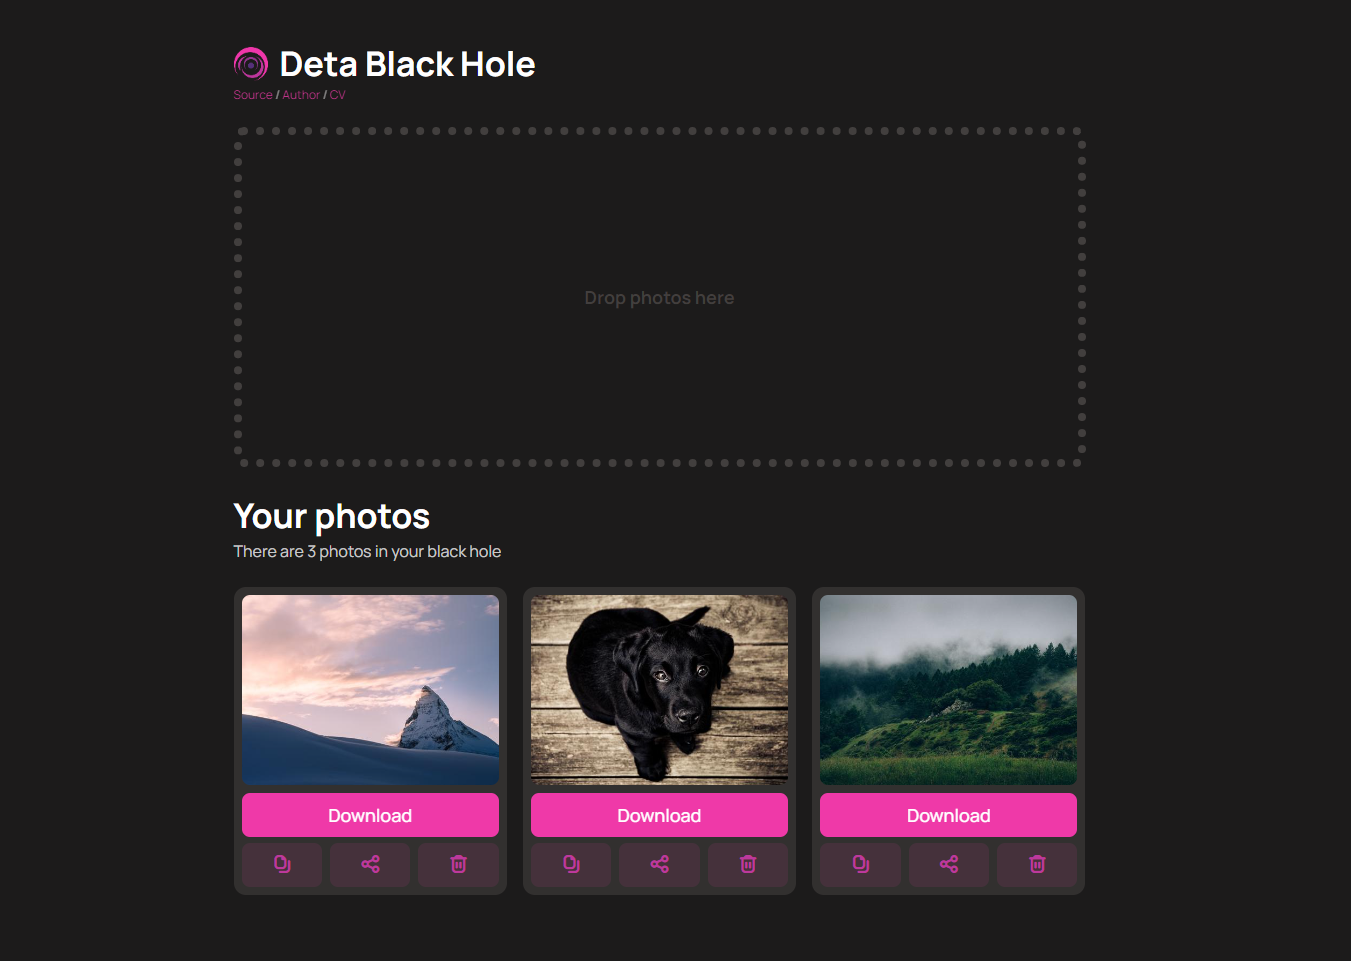
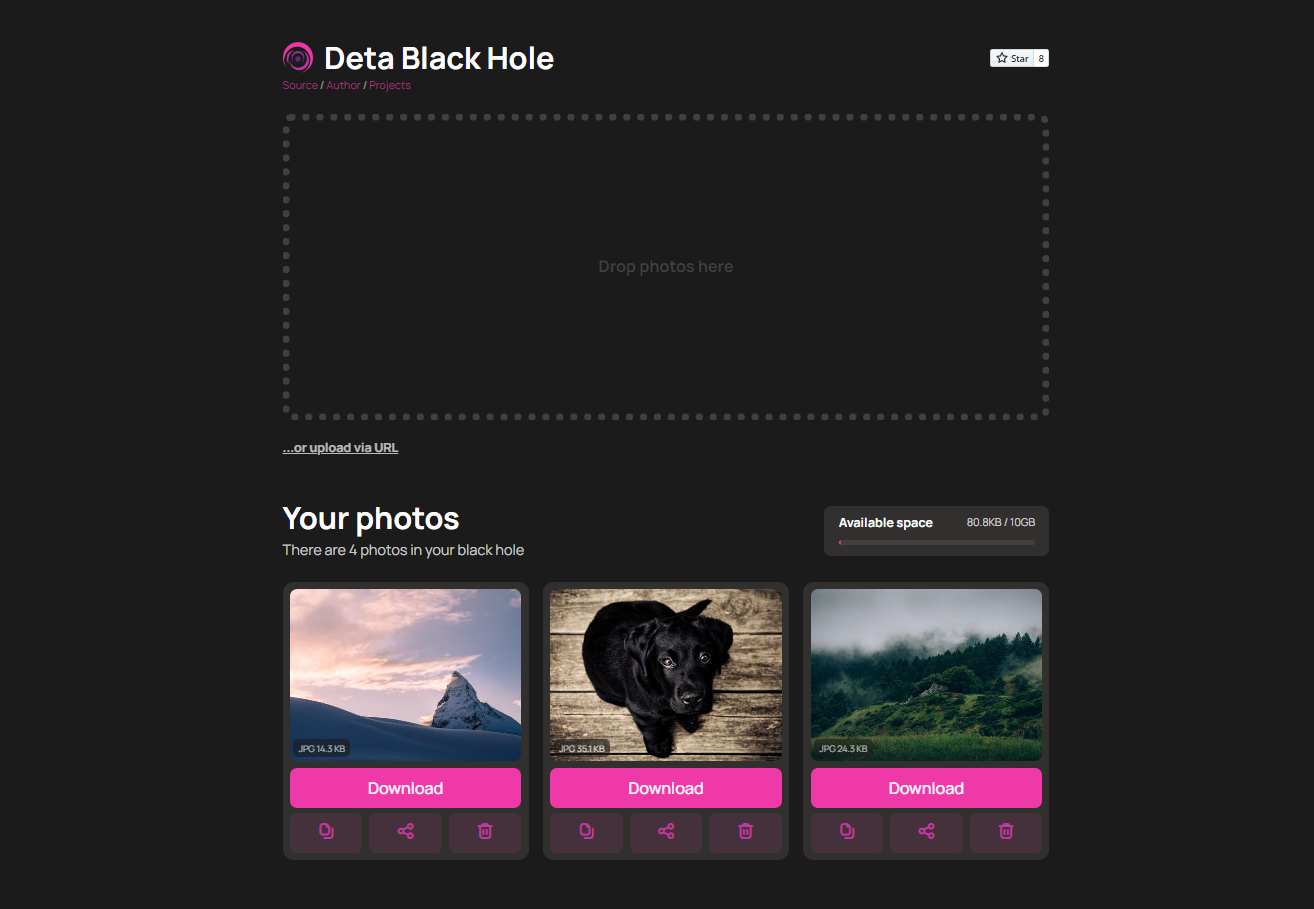
readme and preview update

diff --git a/Discovery.md b/Discovery.md
@@ -1,6 +1,6 @@
 ---
 title: "Deta Black Hole"
-tagline: "Your personal image hosting."
+tagline: "Your personal image hosting"
 theme_color: "#ef39a8"
 git: "https://github.com/mikhailsdv/deta-black-hole"
 homepage: "https://github.com/mikhailsdv/deta-black-hole"
@@ -8,7 +8,9 @@ homepage: "https://github.com/mikhailsdv/deta-black-hole"
 
 🌀 Deta Black Hole is kind of black hole for your images. You just drop stuff and it eats it.
 
-Main features:
+![image](./preview.png)
+
+Features:
 
 -   Drag'n'drop multiple files;
 -   Drag'n'drop images from another browser tabs;
@@ -19,6 +21,7 @@ Main features:
 -   Delete image button;
 -   Adaptive mobile version;
 -   Your images sorted by upload date by default;
+-   Available space indicator;
 -   Other features I forgot about.
 
 So Deta Black Hole is the only black hole you'll be happy to see in Space 😎🚀
